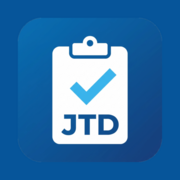
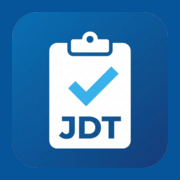
chore: rename project from JTD to JDT
Update application title, metadata, and branding assets to reflect the JDT acronym.

Changed region(s): [[0.25, 0.1667, 0.75, 0.8333], [0.6667, 0.6389, 0.9444, 0.9444], [0.4444, 0.4722, 0.4722, 0.5]]

diff --git a/src/components/PWAInstallButton.tsx b/src/components/PWAInstallButton.tsx
@@ -38,7 +38,7 @@ export function PWAInstallButton({ variant = 'header' }: PWAInstallButtonProps) 
         type="button"
         onClick={() => void handleClick()}
         className={buttonClass}
-        title="Installer Mes JTD sur l'écran d'accueil"
+        title="Installer Mes JDT sur l'écran d'accueil"
       >
         <Download className="w-3.5 h-3.5 shrink-0" />
         <span className={variant === 'header' ? 'hidden sm:inline' : ''}>
@@ -60,10 +60,10 @@ export function PWAInstallButton({ variant = 'header' }: PWAInstallButtonProps) 
                 <AppLogo className="w-11 h-11 rounded-xl shrink-0 shadow-xs" />
                 <div>
                   <h3 className="text-base font-extrabold text-slate-900">
-                    Installer Mes JTD
+                    Installer Mes JDT
                   </h3>
                   <p className="text-xs text-slate-500">
-                    Raccourci « Mes JTD » sur votre écran d&apos;accueil
+                    Raccourci « Mes JDT » sur votre écran d&apos;accueil
                   </p>
                 </div>
               </div>
@@ -100,7 +100,7 @@ export function PWAInstallButton({ variant = 'header' }: PWAInstallButtonProps) 
                 <li className="flex items-start gap-2">
                   <span className="font-bold text-[#0a5b9c]">3.</span>
                   <span>
-                    Confirmez le nom <strong>Mes JTD</strong> puis appuyez sur{' '}
+                    Confirmez le nom <strong>Mes JDT</strong> puis appuyez sur{' '}
                     <strong>Ajouter</strong>.
                   </span>
                 </li>
@@ -114,7 +114,7 @@ export function PWAInstallButton({ variant = 'header' }: PWAInstallButtonProps) 
                 <p className="leading-relaxed">
                   Ouvrez le menu <strong>⋮</strong> du navigateur et sélectionnez{' '}
                   <strong>Ajouter à l&apos;écran d&apos;accueil</strong> ou{' '}
-                  <strong>Installer l&apos;application Mes JTD</strong>.
+                  <strong>Installer l&apos;application Mes JDT</strong>.
                 </p>
               </div>
             )}

diff --git a/src/components/AppLogo.tsx b/src/components/AppLogo.tsx
@@ -8,15 +8,15 @@ export function AppLogo({ className = 'w-9 h-9' }: AppLogoProps) {
       xmlns="http://www.w3.org/2000/svg"
       viewBox="0 0 512 512"
       role="img"
-      aria-label="Logo Mes JTD"
+      aria-label="Logo Mes JDT"
       className={className}
     >
       <defs>
-        <linearGradient id="mes-jtd-bg" x1="0%" y1="0%" x2="100%" y2="100%">
+        <linearGradient id="mes-jdt-bg" x1="0%" y1="0%" x2="100%" y2="100%">
           <stop offset="0%" stopColor="#0d6ebd" />
           <stop offset="100%" stopColor="#053d73" />
         </linearGradient>
-        <linearGradient id="mes-jtd-check" x1="0%" y1="0%" x2="100%" y2="100%">
+        <linearGradient id="mes-jdt-check" x1="0%" y1="0%" x2="100%" y2="100%">
           <stop offset="0%" stopColor="#38bdf8" />
           <stop offset="100%" stopColor="#0ea5e9" />
         </linearGradient>
@@ -27,7 +27,7 @@ export function AppLogo({ className = 'w-9 h-9' }: AppLogoProps) {
         width="512"
         height="512"
         rx="112"
-        fill="url(#mes-jtd-bg)"
+        fill="url(#mes-jdt-bg)"
       />
       <rect x="122" y="102" width="268" height="346" rx="28" fill="#ffffff" />
       <rect x="182" y="92" width="148" height="56" rx="16" fill="#064e8c" />
@@ -37,7 +37,7 @@ export function AppLogo({ className = 'w-9 h-9' }: AppLogoProps) {
       <path
         d="M196 244 L238 286 L326 196"
         fill="none"
-        stroke="url(#mes-jtd-check)"
+        stroke="url(#mes-jdt-check)"
         strokeWidth="34"
         strokeLinecap="square"
         strokeLinejoin="miter"
@@ -52,7 +52,7 @@ export function AppLogo({ className = 'w-9 h-9' }: AppLogoProps) {
         letterSpacing="4"
         fill="#064e8c"
       >
-        JTD
+        JDT
       </text>
     </svg>
   );

diff --git a/index.html b/index.html
@@ -3,17 +3,17 @@
   <head>
     <meta charset="UTF-8" />
     <meta name="viewport" content="width=device-width, initial-scale=1.0, maximum-scale=1.0, user-scalable=no" />
-    <title>Mes JTD — Journal des travaux</title>
-    <meta name="description" content="Mes JTD — Journal des travaux quotidien et hebdomadaire avec export PDF A4, import Excel (.xlsx) et signature." />
-    <meta property="og:title" content="Mes JTD" />
-    <meta property="og:description" content="Mes JTD — Journal des travaux quotidien et hebdomadaire avec export PDF A4, import Excel (.xlsx) et signature." />
+    <title>Mes JDT — Journal des travaux</title>
+    <meta name="description" content="Mes JDT — Journal des travaux quotidien et hebdomadaire avec export PDF A4, import Excel (.xlsx) et signature." />
+    <meta property="og:title" content="Mes JDT" />
+    <meta property="og:description" content="Mes JDT — Journal des travaux quotidien et hebdomadaire avec export PDF A4, import Excel (.xlsx) et signature." />
     <meta property="og:type" content="website" />
     <meta name="twitter:card" content="summary_large_image" />
     <meta name="theme-color" content="#0a5b9c" />
     <meta name="mobile-web-app-capable" content="yes" />
     <meta name="apple-mobile-web-app-capable" content="yes" />
     <meta name="apple-mobile-web-app-status-bar-style" content="default" />
-    <meta name="apple-mobile-web-app-title" content="Mes JTD" />
+    <meta name="apple-mobile-web-app-title" content="Mes JDT" />
     <link rel="apple-touch-icon" href="./apple-touch-icon.png" />
     <link rel="icon" type="image/svg+xml" href="./icon.svg" />
     <link rel="icon" type="image/png" sizes="192x192" href="./pwa-192x192.png" />

diff --git a/src/components/AccountView.tsx b/src/components/AccountView.tsx
@@ -480,12 +480,12 @@ export function AccountView({
           </div>
           <div>
             <h2 className="text-sm font-bold text-slate-900">
-              Application mobile &amp; raccourci « Mes JTD »
+              Application mobile &amp; raccourci « Mes JDT »
             </h2>
             <p className="text-xs text-slate-500 mt-0.5 leading-relaxed">
               {isInstalled
-                ? 'Mes JTD est installée sur cet appareil. Vos chantiers et journaux restent synchronisés sur toutes vos plateformes (PC, smartphone, tablette).'
-                : 'Installez Mes JTD sur votre téléphone ou ordinateur pour obtenir l’icône dédiée « Mes JTD » et retrouver vos derniers JTD à jour sur n’importe quel appareil.'}
+                ? 'Mes JDT est installée sur cet appareil. Vos chantiers et journaux restent synchronisés sur toutes vos plateformes (PC, smartphone, tablette).'
+                : 'Installez Mes JDT sur votre téléphone ou ordinateur pour obtenir l’icône dédiée « Mes JDT » et retrouver vos derniers JDT à jour sur n’importe quel appareil.'}
             </p>
           </div>
         </div>

diff --git a/src/App.tsx b/src/App.tsx
@@ -1303,7 +1303,7 @@ export default function App() {
               <AppLogo className="w-9 h-9 sm:w-10 sm:h-10 rounded-xl shrink-0 shadow-xs" />
               <div className="min-w-0">
                 <div className="text-sm sm:text-base font-extrabold tracking-tight leading-tight truncate">
-                  Mes JTD
+                  Mes JDT
                 </div>
                 <div className="text-[11px] text-white/75 truncate">
                   Journal des travaux · INASEP
@@ -1527,7 +1527,7 @@ export default function App() {
 
         {/* Subtle Signed Footer */}
         <footer className="py-4 px-4 text-center text-xs text-slate-400">
-          Mes JTD · INASEP · {APP_SIGNATURE}
+          Mes JDT · INASEP · {APP_SIGNATURE}
         </footer>
       </div>
 

diff --git a/src/components/AccessGateScreen.tsx b/src/components/AccessGateScreen.tsx
@@ -104,7 +104,7 @@ export function AccessGateScreen({
             <AppLogo className="w-10 h-10 rounded-xl shrink-0" />
             <div className="min-w-0">
               <div className="text-base font-extrabold leading-tight truncate">
-                Mes JTD
+                Mes JDT
               </div>
               <div className="text-xs text-white/80 truncate">{user.email}</div>
             </div>
@@ -343,7 +343,7 @@ export function AccessGateScreen({
       </div>
 
       <footer className="text-center text-xs text-slate-500 mt-6">
-        Mes JTD · INASEP · <strong>{APP_SIGNATURE}</strong>
+        Mes JDT · INASEP · <strong>{APP_SIGNATURE}</strong>
       </footer>
     </div>
   );

diff --git a/src/components/AuthScreen.tsx b/src/components/AuthScreen.tsx
@@ -232,7 +232,7 @@ export function AuthScreen({
             <AppLogo className="w-11 h-11 rounded-xl shrink-0 shadow-xs" />
             <div>
               <h1 className="text-lg font-extrabold tracking-tight leading-tight">
-                Mes JTD
+                Mes JDT
               </h1>
               <p className="text-xs text-white/80 mt-0.5">
                 Journal des travaux · INASEP
@@ -556,7 +556,7 @@ export function AuthScreen({
       </div>
 
       <footer className="text-center text-xs text-slate-500 mt-6">
-        Mes JTD · INASEP · <strong>{APP_SIGNATURE}</strong>
+        Mes JDT · INASEP · <strong>{APP_SIGNATURE}</strong>
       </footer>
     </div>
   );

diff --git a/vite.config.ts b/vite.config.ts
@@ -21,10 +21,10 @@ export default defineConfig(() => {
         ],
         manifest: {
           id: './',
-          name: 'Mes JTD',
-          short_name: 'Mes JTD',
+          name: 'Mes JDT',
+          short_name: 'Mes JDT',
           description:
-            'Mes JTD — Journal des travaux quotidien et hebdomadaire avec signature et export PDF A4.',
+            'Mes JDT — Journal des travaux quotidien et hebdomadaire avec signature et export PDF A4.',
           theme_color: '#0a5b9c',
           background_color: '#f4f6f9',
           display: 'standalone',
